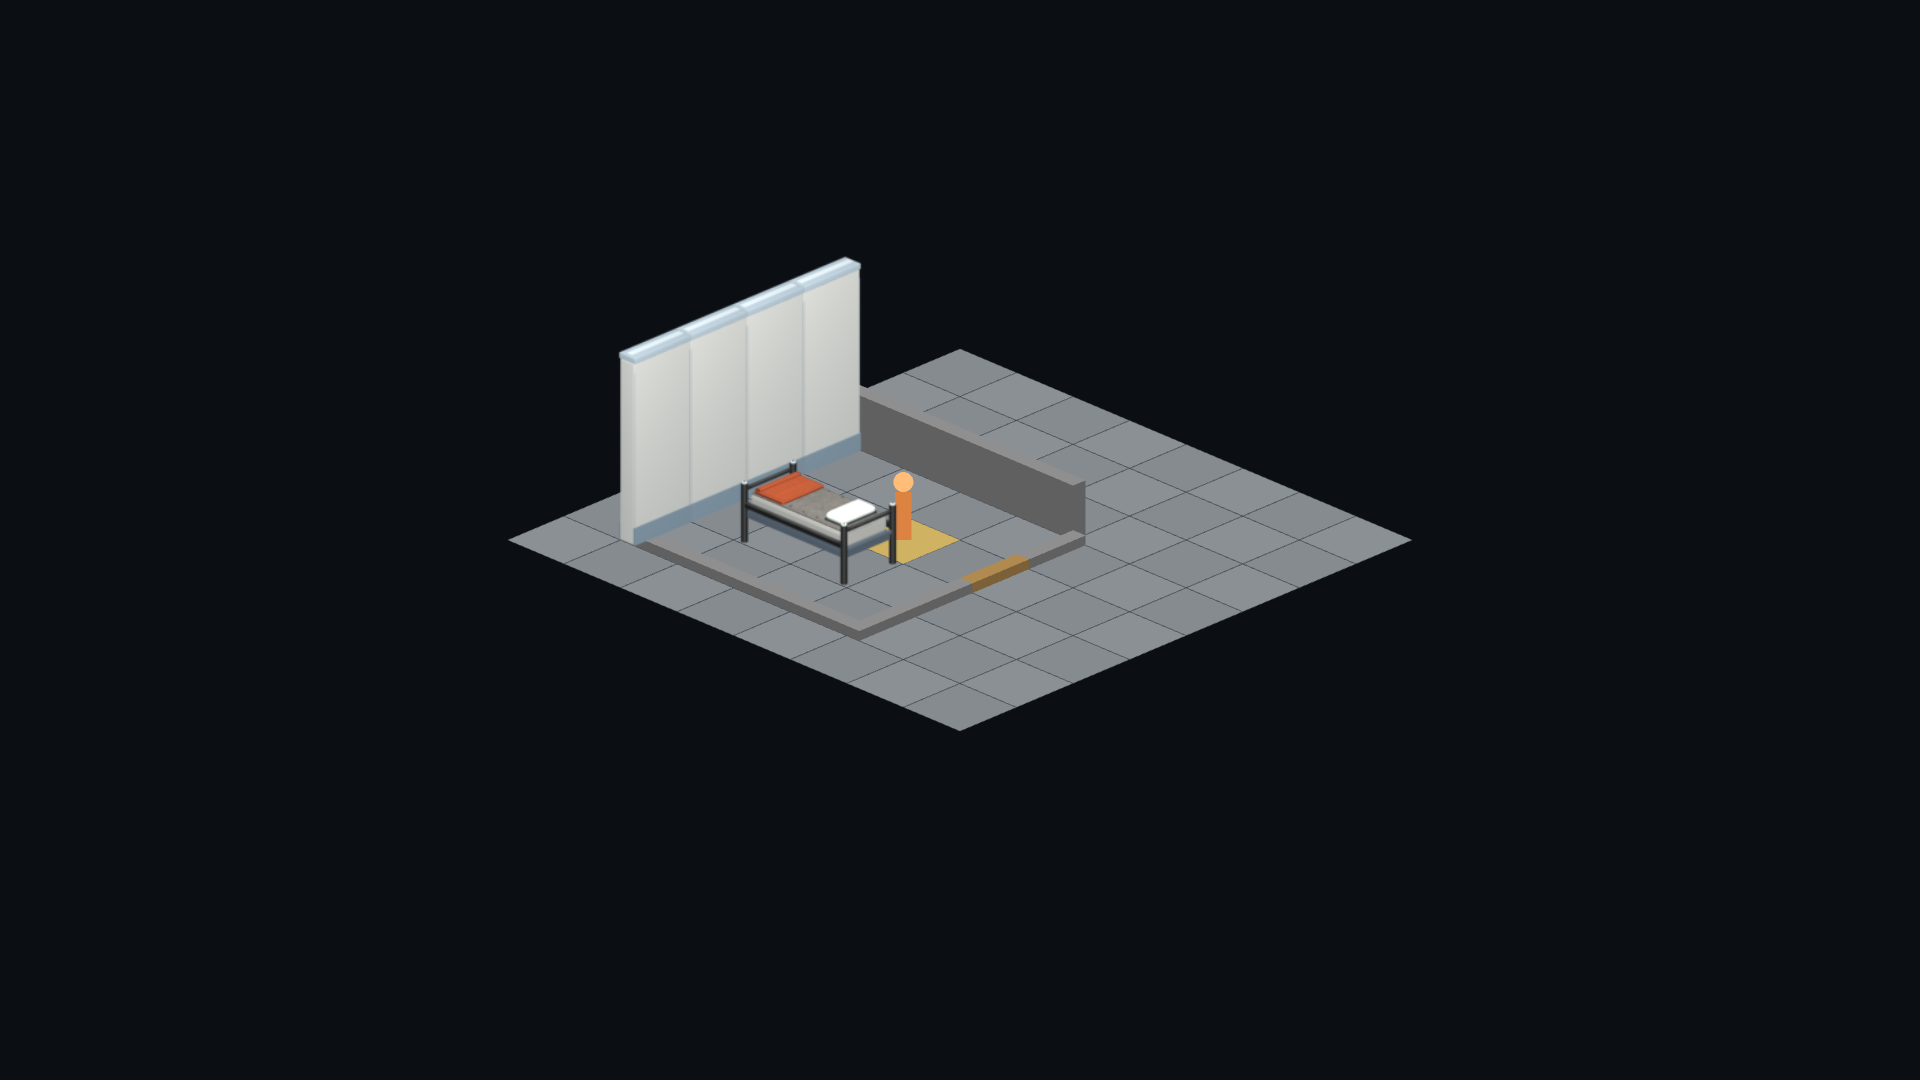
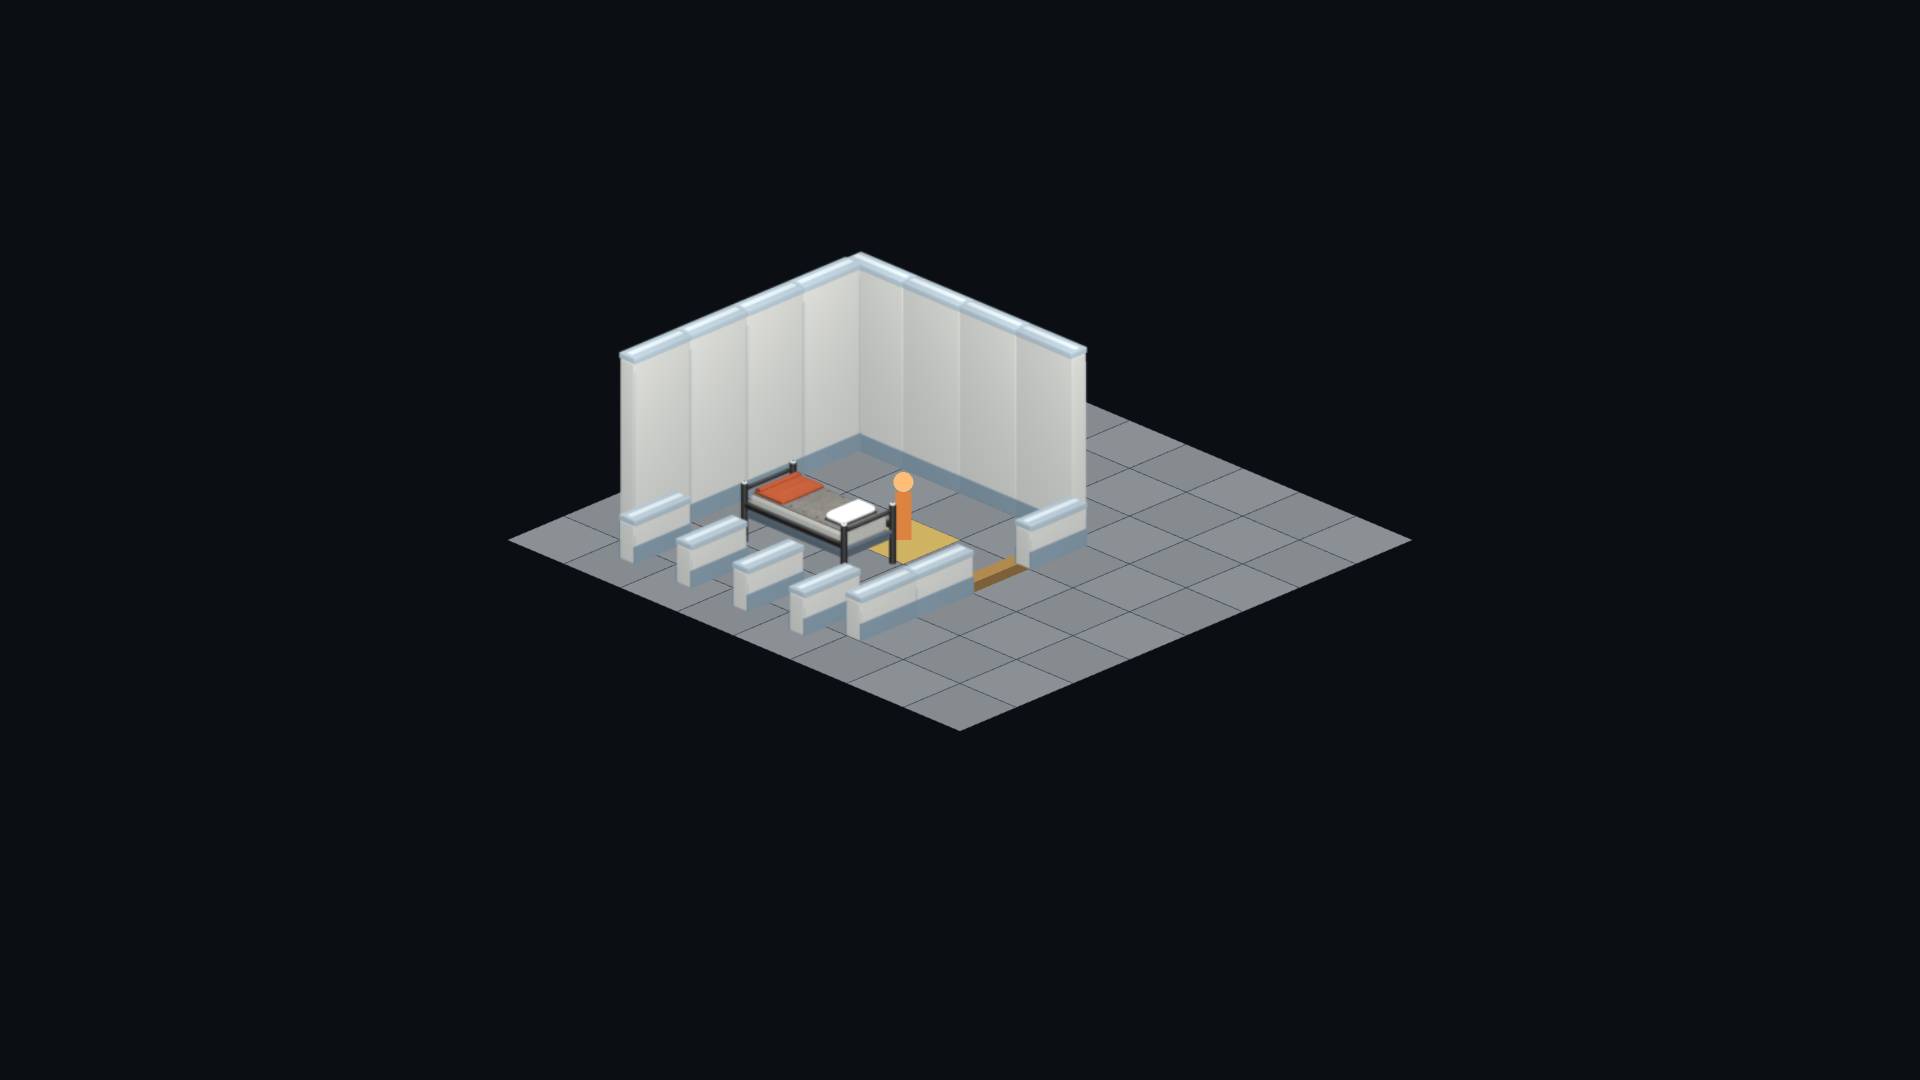
Compose authored west and cutaway walls at camera poses

Changed region(s): [[0.3125, 0.2139, 0.5938, 0.6111]]

diff --git a/src/rendering/scene/oblique-world-scene.ts b/src/rendering/scene/oblique-world-scene.ts
@@ -250,7 +250,7 @@ export class ObliqueWorldScene extends Phaser.Scene {
         continue;
       }
       const cutaway = this.cutsAwayForSelection(item);
-      if (!cutaway && this.artFrame(item) !== undefined) continue;
+      if (this.displayArtFrame(item, cutaway) !== undefined) continue;
       const top = cutaway ? lowerTop(item.footprint, item.top, 0.18) : item.top;
       for (let side = 0; side < 4; side += 1) {
         const next = (side + 1) % 4;
@@ -271,12 +271,25 @@ export class ObliqueWorldScene extends Phaser.Scene {
     return item.viewDepth > selectedDepth + TILE_SIZE_PX * 0.25;
   }
 
-  private artFrame(item: ObliqueSolid): { readonly catalog: ObliqueModuleCatalog; readonly image: string } | undefined {
-    if (item.artAssetId === undefined) return undefined;
-    const catalog = this.artCatalogs.get(item.artAssetId);
+  private cutawayArtAssetId(item: ObliqueSolid): string | undefined {
+    if (item.artAssetId === 'wall.interior.module.full' || item.artAssetId === 'wall.interior.module.west.full') {
+      return 'wall.interior.module.cutaway';
+    }
+    return undefined;
+  }
+
+  private artFrame(item: ObliqueSolid, assetId = item.artAssetId): { readonly catalog: ObliqueModuleCatalog; readonly image: string } | undefined {
+    if (assetId === undefined) return undefined;
+    const catalog = this.artCatalogs.get(assetId);
     if (catalog === undefined) return undefined;
     const frame = selectObliqueModuleFrame(catalog, this.pose);
     return this.textures.exists(frame.image) ? { catalog, image: frame.image } : undefined;
+  }
+
+  private displayArtFrame(item: ObliqueSolid, cutaway: boolean): { readonly catalog: ObliqueModuleCatalog; readonly image: string } | undefined {
+    if (!cutaway) return this.artFrame(item);
+    const assetId = this.cutawayArtAssetId(item);
+    return assetId === undefined ? undefined : this.artFrame(item, assetId);
   }
 
   private paintArt(projection: ObliqueWorldProjection): void {
@@ -284,8 +297,8 @@ export class ObliqueWorldScene extends Phaser.Scene {
     this.artImages = [];
     for (const item of projection.raised) {
       if (item.kind === 'actor') continue;
-      if (this.cutsAwayForSelection(item)) continue;
-      const art = this.artFrame(item);
+      const cutaway = this.cutsAwayForSelection(item);
+      const art = this.displayArtFrame(item, cutaway);
       if (art === undefined) continue;
       const anchor = {
         x: item.footprint.reduce((sum, corner) => sum + corner.x, 0) / 4,

diff --git a/tests/browser/oblique-world-harness.spec.ts b/tests/browser/oblique-world-harness.spec.ts
@@ -8,9 +8,10 @@ test('real render feed cell keeps one build square under the cursor while the sc
   await expect(page.locator('canvas')).toBeVisible();
   const loadedArt = await page.evaluate(() => window.lockstateObliqueWorldHarness.artTextureKeys());
   expect(loadedArt.some((key) => key.includes('wall-module-full'))).toBe(true);
+  expect(loadedArt.some((key) => key.includes('wall-module-west-full'))).toBe(true);
   expect(loadedArt.some((key) => key.includes('cell-door-open'))).toBe(true);
   expect(loadedArt.some((key) => key.includes('cell-bed'))).toBe(true);
-  expect(await page.evaluate(() => window.lockstateObliqueWorldHarness.loadedArtTextureCount())).toBeLessThanOrEqual(6);
+  expect(await page.evaluate(() => window.lockstateObliqueWorldHarness.loadedArtTextureCount())).toBeLessThanOrEqual(8);
   let previousGroundPaints = 0;
   for (const [yaw, elevation] of [[-45, 25], [0, 45], [45, 65]] as const) {
     await page.evaluate(([y, e]) => window.lockstateObliqueWorldHarness.setPose(y, e), [yaw, elevation] as const);
@@ -25,6 +26,7 @@ test('real render feed cell keeps one build square under the cursor while the sc
       const artAfterSelection = await page.evaluate(() => window.lockstateObliqueWorldHarness.artTextureKeys());
       expect(artAfterSelection.length).toBeLessThan(artBeforeSelection.length);
       expect(artAfterSelection.some((key) => key.includes('cell-bed'))).toBe(true);
+      expect(artAfterSelection.some((key) => key.includes('wall-module-cutaway'))).toBe(true);
       const cutaway = await page.evaluate(() => window.lockstateObliqueWorldHarness.cutawayWallIds());
       expect(cutaway).toContain('north-edge:3:5');
       expect(cutaway).not.toContain('north-edge:2:1');
@@ -36,5 +38,5 @@ test('real render feed cell keeps one build square under the cursor while the sc
     expect(await page.evaluate(() => window.lockstateObliqueWorldHarness.paintCounts())).toEqual(painted);
     await page.screenshot({ path: testInfo.outputPath(`render-feed-yaw${yaw}-elev${elevation}-fullhd.png`) });
   }
-  expect(await page.evaluate(() => window.lockstateObliqueWorldHarness.loadedArtTextureCount())).toBeLessThan(30);
+  expect(await page.evaluate(() => window.lockstateObliqueWorldHarness.loadedArtTextureCount())).toBeLessThan(40);
 });

diff --git a/src/rendering/camera/oblique-world-projection.ts b/src/rendering/camera/oblique-world-projection.ts
@@ -14,7 +14,7 @@ import { TILE_SIZE_PX, tileRangeContains, visibleTileRange } from '../tile-metri
 import { groundToScreen, visibleGroundBounds, type ObliqueCameraState } from './oblique-projection';
 import { obliqueDepthForAnchor, projectedRectPrism, projectedTileQuad, type TileQuad } from './oblique-geometry';
 import type { Point } from './coordinates';
-import { artForNorthEdge, artForStructure } from './oblique-art-mapping';
+import { artForNorthEdge, artForWestEdge, artForStructure } from './oblique-art-mapping';
 
 export interface ObliqueGroundTile {
   readonly tileX: number;
@@ -103,7 +103,7 @@ export function projectObliqueWorldFrame(frame: RenderFrame, camera: ObliqueCame
       kind, id: `${kind}:${tileX}:${tileY}`, tileX, tileY,
       ...geometry, topFill: appearance.topFill, sideFill: appearance.sideFill, alpha: 1,
       viewDepth: obliqueDepthForAnchor({ x: x + width / 2, y: y + depth / 2 }, camera.yawRadians),
-      artAssetId: kind === 'north-edge' ? artForNorthEdge(value) : undefined,
+      artAssetId: kind === 'north-edge' ? artForNorthEdge(value) : artForWestEdge(value),
     });
   };
 

diff --git a/src/rendering/camera/oblique-art-mapping.ts b/src/rendering/camera/oblique-art-mapping.ts
@@ -9,10 +9,17 @@ const NORTH_EDGE_ART: ReadonlyMap<number, string> = new Map([
 
 const OBJECT_ART: Readonly<Record<string, string>> = {
   'object.bed': 'furniture.cell.bed.single.variants',
+  'object.toilet': 'fixture.cell.toilet_sink',
+  'object.storage-rack': 'furniture.storage.rack.wooden',
+  'object.chair': 'furniture.chair.wooden',
 };
 
 export function artForNorthEdge(edgeNumericId: number): string | undefined {
   return NORTH_EDGE_ART.get(edgeNumericId);
+}
+
+export function artForWestEdge(edgeNumericId: number): string | undefined {
+  return edgeNumericId === WALL_EDGE_NUMERIC_ID ? 'wall.interior.module.west.full' : undefined;
 }
 
 export function artForStructure(definitionId: string): string | undefined {

diff --git a/docs/design/2026-09-28-adjustable-camera/README.md b/docs/design/2026-09-28-adjustable-camera/README.md
@@ -141,8 +141,8 @@ rather than the frame-cost acceptance test for a large prison.
 
 ## First Blender modules inside the actual scene
 
-The composition branch joins the camera scene to the authored wall, open-door
-and bed modules from the art chain. Its browser fixture loads the real
+The composition branch joins the camera scene to authored north and west wall,
+cutaway wall, open-door, bed, toilet, rack and chair modules. Its browser fixture loads the real
 content-hashed PNGs and checks that each camera pose chooses the matching bed
 frame. It renders the same immutable world and selected square as above:
 
@@ -155,12 +155,12 @@ frame. It renders the same immutable world and selected square as above:
 Selecting a ground square lowers only nearby walls *in front of* it. The
 unchanged edge layers still carry their full collision and save state. A
 browser mutation that reversed the near-wall depth comparison cut the far
-wall instead and failed the test; restoration passed. The current short wall
-is a geometric placeholder pending a matching authored cutaway module. West
-edges also still use simple geometry because the first modular wall art is
-oriented to north edges. Actors, floors and arbitrary intermediate yaw angles
-have not reached final art quality. Depth and asset loading must be measured
-on a much larger prison before the scene can replace the current player view.
+wall instead and failed the test; restoration passed. Authored cutaway art now
+replaces nearby wall geometry at the selected camera pose. Door cutaways still
+use geometry. The scene loads only the needed camera frames into Phaser's
+texture cache. Actors and floors have not reached final art quality. Depth and
+asset loading must be measured on a much larger prison before replacing the
+current player view.
 
 ## Active delivery lanes
 
